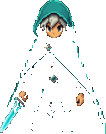
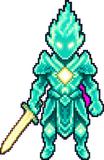
Improve enlightened player readability

diff --git a/src/scenes/GameScene.ts b/src/scenes/GameScene.ts
@@ -41,9 +41,12 @@ export class GameScene extends Phaser.Scene {
   private player!: Sprite;
   private playerShadow!: Phaser.GameObjects.Ellipse;
   private playerGlow!: Phaser.GameObjects.Image;
+  private playerPlate!: Phaser.GameObjects.Ellipse;
+  private playerCore!: Phaser.GameObjects.Ellipse;
   private guardians!: Sprite[];
   private boss?: Sprite;
   private orbs: Sprite[] = [];
+  private layoutWalls: Phaser.GameObjects.Rectangle[] = [];
   private bars = new WeakMap<Sprite, Phaser.GameObjects.Graphics>();
   private chest!: Phaser.GameObjects.Image;
   private chestOpened = false;
@@ -98,6 +101,7 @@ export class GameScene extends Phaser.Scene {
     this.seenWeapons.clear();
     this.weaponUsage = { nano: 0, standard: 0, frontier: 0 };
     this.orbs = [];
+    this.layoutWalls = [];
     this.boss = undefined;
     this.startTime = this.time.now;
 
@@ -116,24 +120,35 @@ export class GameScene extends Phaser.Scene {
     this.chest = this.add.image(WALL_INSET + 70, WALL_INSET + 60, "chest").setDepth(10);
     fitHeight(this.chest, 66);
 
-    // Player. A soft shadow, a glowing aura, and (on capable GPUs) an FX glow make
-    // the hero read clearly against busy painted rooms.
+    // Player. Luminous entity treatment contrasts with solid enemies without a fake blob.
     this.playerShadow = this.add.ellipse(0, 0, 46, 16, 0x000000, 0.33).setDepth(2);
     this.playerGlow = this.add
       .image(0, 0, "glow")
       .setTint(0x8affe0)
       .setBlendMode(Phaser.BlendModes.ADD)
-      .setDepth(11)
+      .setDepth(10)
       .setDisplaySize(150, 150)
-      .setAlpha(0.6);
-    this.tweens.add({ targets: this.playerGlow, alpha: 0.85, yoyo: true, repeat: -1, duration: 900, ease: "Sine.inOut" });
+      .setAlpha(0.24);
+    this.tweens.add({ targets: this.playerGlow, alpha: 0.34, yoyo: true, repeat: -1, duration: 900, ease: "Sine.inOut" });
+    this.playerCore = this.add
+      .ellipse(0, 0, 66, 78, 0x8affe0, 0.1)
+      .setStrokeStyle(2, 0xc9fff3, 0.86)
+      .setDepth(11);
+    this.tweens.add({ targets: this.playerCore, alpha: 0.2, scale: 1.06, yoyo: true, repeat: -1, duration: 1100, ease: "Sine.inOut" });
+    this.playerPlate = this.add
+      .ellipse(0, 0, 66, 22, 0x8affe0, 0.18)
+      .setStrokeStyle(2, 0x8affe0, 0.8)
+      .setDepth(11.5);
     this.player = this.physics.add.sprite(GAME_W / 2, GAME_H - WALL_INSET - 40, "hero");
-    this.player.setDepth(12).setCollideWorldBounds(true);
+    this.player.setDepth(12).setCollideWorldBounds(true).setAlpha(1);
     fitHeight(this.player, 88);
     this.player.setData("radius", PLAYER_RADIUS);
     if (this.renderer.type === Phaser.WEBGL) {
       this.player.postFX.addGlow(0x8affe0, 4, 0, false, 0.1, 14);
     }
+
+    this.buildLayout();
+    this.addLayoutColliders(this.player);
 
     // Guardians (mission 1).
     this.guardians = [];
@@ -163,8 +178,44 @@ export class GameScene extends Phaser.Scene {
     e.setData("maxHp", ENEMY_HP);
     e.setData("barW", 44);
     e.setData("radius", ENEMY_RADIUS);
+    this.addLayoutColliders(e);
     this.bars.set(e, this.add.graphics().setDepth(40));
     this.guardians.push(e);
+  }
+
+  private buildLayout() {
+    const wallY = 270;
+    const wallHeight = 18;
+    const walls = [
+      { x: 350, y: 180, width: 18, height: 180 },
+      { x: 610, y: 180, width: 18, height: 180 },
+      { x: 157.5, y: wallY, width: 115, height: wallHeight },
+      { x: 342.5, y: wallY, width: 25, height: wallHeight },
+      { x: 385, y: wallY, width: 70, height: wallHeight },
+      { x: 575, y: wallY, width: 70, height: wallHeight },
+      { x: 627.5, y: wallY, width: 35, height: wallHeight },
+      { x: 812.5, y: wallY, width: 95, height: wallHeight },
+    ];
+    for (const spec of walls) {
+      const wall = this.add
+        .rectangle(spec.x, spec.y, spec.width, spec.height, 0x172530, 0.92)
+        .setStrokeStyle(2, 0x64778b, 0.95)
+        .setDepth(8);
+      this.physics.add.existing(wall, true);
+      this.layoutWalls.push(wall);
+    }
+
+    // Three open doorways connect left, center, and right upper rooms.
+    for (const x of [275, 480, 705]) {
+      this.add.rectangle(x, wallY, 100, 14, 0x8affe0, 0.12).setDepth(7);
+      this.add.rectangle(x - 56, wallY, 8, 38, 0x8295aa, 0.95).setDepth(9);
+      this.add.rectangle(x + 56, wallY, 8, 38, 0x8295aa, 0.95).setDepth(9);
+      this.add.rectangle(x, wallY - 17, 100, 4, 0x8affe0, 0.7).setDepth(9);
+    }
+  }
+
+  private addLayoutColliders(sprite: Sprite) {
+    for (const wall of this.layoutWalls) this.physics.add.collider(sprite, wall);
   }
 
   private bindInput() {
@@ -263,9 +314,11 @@ export class GameScene extends Phaser.Scene {
   // ---------- gameplay ----------
 
   update(time: number) {
-    // Keep the shadow + aura glued to the hero (also while paused on a card).
-    this.playerShadow.setPosition(this.player.x, this.player.y + this.player.displayHeight * 0.34);
+    // Keep the shadow, aura, and plate glued to the hero (also while paused on a card).
+    this.playerShadow.setPosition(this.player.x, this.player.y + this.player.displayHeight * 0.38);
     this.playerGlow.setPosition(this.player.x, this.player.y);
+    this.playerCore.setPosition(this.player.x, this.player.y);
+    this.playerPlate.setPosition(this.player.x, this.player.y + this.player.displayHeight * 0.38);
 
     if (this.locked) {
       this.player.setVelocity(0, 0);
@@ -328,6 +381,7 @@ export class GameScene extends Phaser.Scene {
     b.setData("barW", 130);
     b.setData("radius", BOSS_RADIUS);
     b.setData("boss", true);
+    this.addLayoutColliders(b);
     this.bars.set(b, this.add.graphics().setDepth(40));
     this.boss = b;
     const now = this.time.now;
@@ -411,10 +465,10 @@ export class GameScene extends Phaser.Scene {
   // ---------- combat ----------
 
   private selectWeapon(i: number) {
+    if (this.locked) return;
     this.weaponIndex = i;
     this.refreshHud();
     play("ui");
-    if (this.locked) return;
     this.floating(this.player.x, this.player.y - 54, this.weapon.label[getLang()], hex(this.weapon.color));
     if (!this.seenWeapons.has(this.weapon.id)) {
       this.seenWeapons.add(this.weapon.id);
@@ -610,8 +664,13 @@ export class GameScene extends Phaser.Scene {
   private async withCard(fn: () => Promise<void>) {
     this.locked = true;
     this.player.setVelocity(0, 0);
-    await fn();
-    if (this.phase !== "done") this.locked = false;
+    this.scene.pause();
+    try {
+      await fn();
+    } finally {
+      if (this.phase !== "done") this.locked = false;
+      this.scene.resume();
+    }
   }
 
   private showIntro() {
